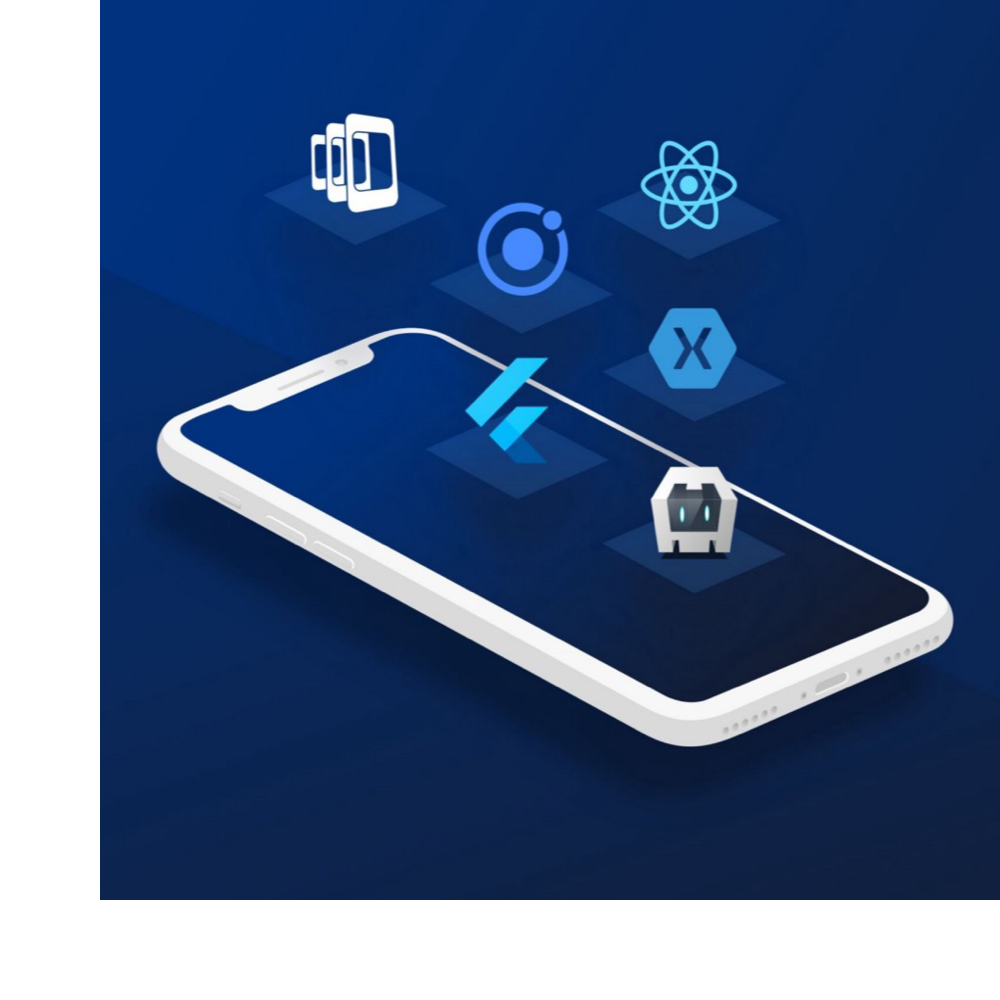
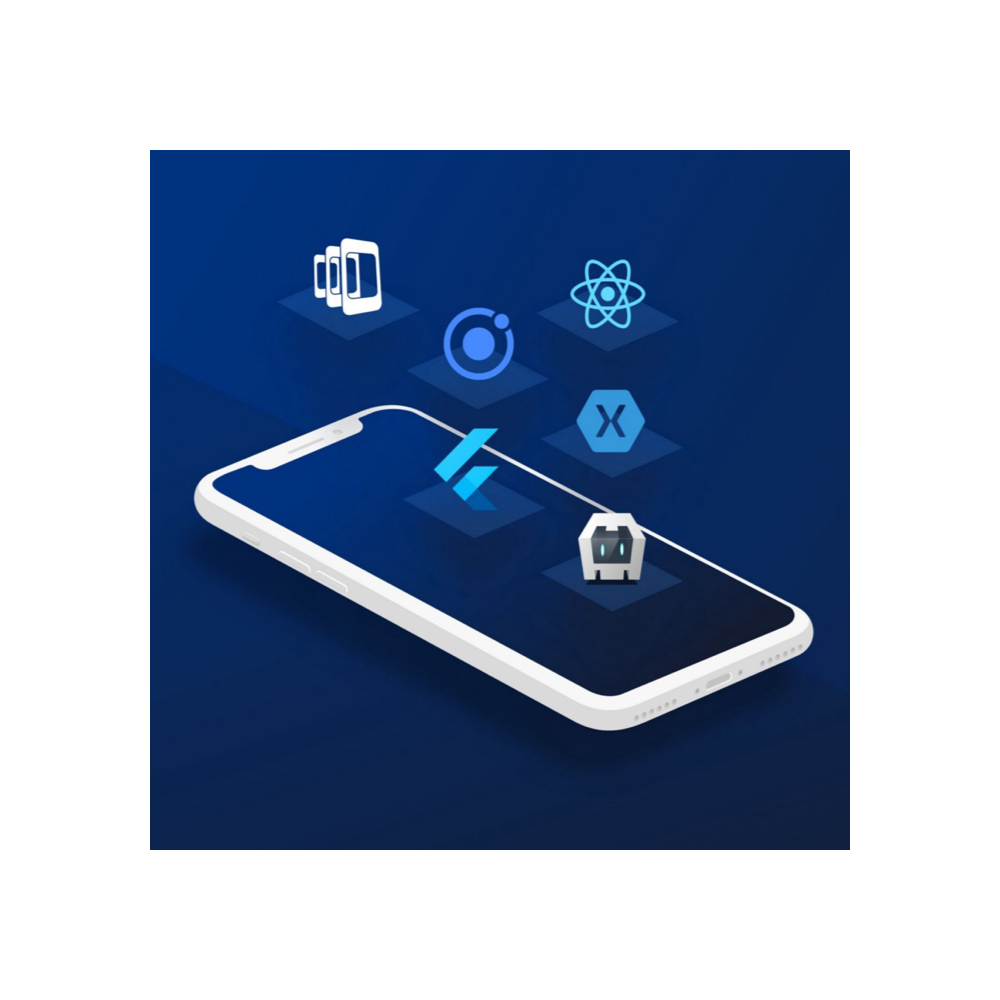
new images web page

diff --git a/src/pages/web/Sectionsweb/Alternate2.jsx b/src/pages/web/Sectionsweb/Alternate2.jsx
@@ -27,13 +27,14 @@ class Alternate1 extends React.Component {
         <div css={{'@media (min-width: 300px) and (max-width: 2000px)':
           {padding: "0px!important"},backgroundColor: "#fff", padding: "0px!important"}} className={classes.section}>
           <GridContainer justify="center">
-            <GridItem xs={12} sm={12} md={6}>
-              <img style={{ width: `100%`,}}
+            <GridItem xs={12} sm={12} md={6} css={{'@media (min-width: 300px) and (max-width: 800px)': {order: "2"}}}>
+              <img style={{ width: `80%`,}}
                 src={frontend_development}
+                css={{'@media (min-width: 300px) and (max-width: 800px)': {width: "130vw"}}}
               />
             </GridItem>
-            <GridItem xs={12} sm={12} md={6}>
-              <div css={{'@media (min-width: 300px) and (max-width: 800px)': {paddingLeft: "20px", paddingRight: "20px", paddingBottom: "0px"}, '@media (min-width: 800px)': {paddingLeft: "70px"}}}>
+            <GridItem xs={12} sm={12} md={6} css={{'@media (min-width: 300px) and (max-width: 800px)': {order: "1"}, backgroundColor: "#fff"}}>
+            <div css={{'@media (min-width: 300px) and (max-width: 800px)': {paddingLeft: "20px", paddingRight: "20px", paddingBottom: "0px", paddingTop: "0px"}, '@media (min-width: 800px)': {paddingRight: "70px", paddingTop: "0px"}}}>
                 <h2 css={{'@media (min-width: 300px) and (max-width: 800px)': {textAlign: "center", fontSize: "2.3rem", marginTop: "50px"}}} >Frontend Development</h2>
                 <h6 css={{'@media (min-width: 300px) and (max-width: 800px)': {textAlign: "center"}, '@media (min-width: 800px)': {textAlign: "left"}}}>_________</h6>
                 <h5 css={{'@media (min-width: 300px) and (max-width: 800px)': {textAlign: "center"}}}>Our frontend development is a blend of clean code, impeccable design and extreme usability, creating an experience your customers will love.</h5>

diff --git a/src/pages/web/Sectionsweb/Alternate3.jsx b/src/pages/web/Sectionsweb/Alternate3.jsx
@@ -27,7 +27,7 @@ class Alternate3 extends React.Component {
         <div className={classes.container}>
           <GridContainer justify="center">
             <GridItem xs={12} sm={12} md={6}>
-              <div css={{'@media (min-width: 300px) and (max-width: 800px)': {paddingLeft: "20px", paddingRight: "20px", paddingBottom: "0px", paddingTop: "0px"}, '@media (min-width: 800px)': {paddingLeft: "70px", paddingTop: "0px"}}}>
+              <div css={{'@media (min-width: 300px) and (max-width: 800px)': {paddingLeft: "20px", paddingRight: "20px", paddingBottom: "0px", paddingTop: "150px"}, '@media (min-width: 800px)': {paddingLeft: "70px", paddingTop: "0px"}}}>
                 <h2 css={{'@media (min-width: 300px) and (max-width: 800px)': {textAlign: "center", fontSize: "2.3rem", marginTop: "-100px"}}}>Mobile Development</h2>
                 <h6 css={{'@media (min-width: 300px) and (max-width: 800px)': {textAlign: "center"}, '@media (min-width: 800px)': {textAlign: "left"}}}>_________</h6>
                 <h5 css={{'@media (min-width: 300px) and (max-width: 800px)': {textAlign: "center"}}}>We work with clients in variety of industries to build innovative, beautiful and user-friendly iOS and Android applications.</h5>
@@ -42,7 +42,7 @@ class Alternate3 extends React.Component {
             </GridItem>
             <GridItem xs={12} sm={12} md={6}>
               <div style={{ paddingRight: "0px"}}>
-                <img style={{ width: "100%"}}
+                <img style={{ width: "80%"}}
                   src={mobile_development}
                 />
               </div>

diff --git a/src/pages/web/Sectionsweb/Alternate1.jsx b/src/pages/web/Sectionsweb/Alternate1.jsx
@@ -42,7 +42,7 @@ class Alternate1 extends React.Component {
                </div>
             </GridItem>
             <GridItem xs={12} sm={12} md={6}>
-              <img style={{ width: `100%`,}}
+              <img style={{ width: `80%`,}}
                 src={backend_development}
               />
             </GridItem>
